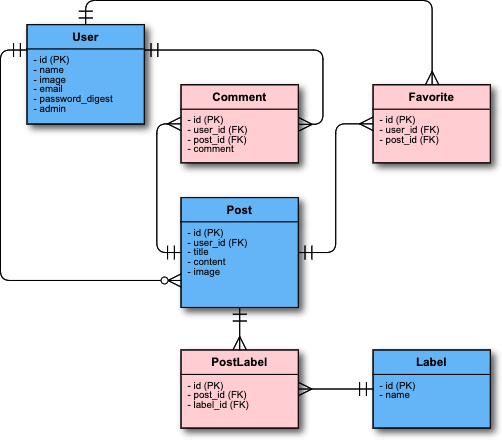
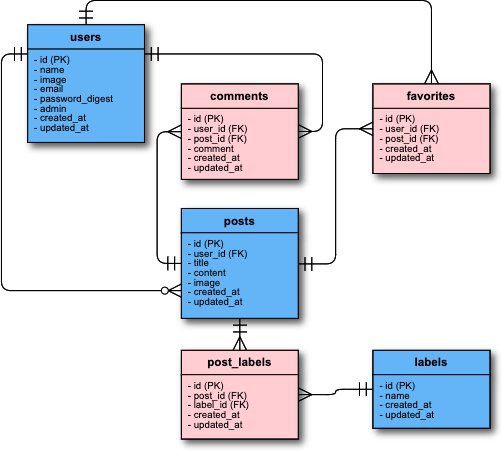
reviesed ER mapping and transition diagram

Changed region(s): [[0.0, 0.0, 1.0, 0.975], [0.5976, 0.7682, 1.0, 1.0], [0.5976, 0.5614, 0.6873, 0.6205]]

diff --git a/README.md b/README.md
@@ -20,7 +20,16 @@
 * ゲストログイン機能
 * 管理者権限機能
 
-## 就職termに学んだ機能
+## 実行手順
+```
+$ git clone https://github.com/gatiness/foodpost_2
+$ cd foodpost
+$ bundle install
+$ rails db:create && rails db:migrate
+$ rails s
+```
+
+## 就職termで学んだ機能
 * コメント機能
 * お気に入り機能
 
